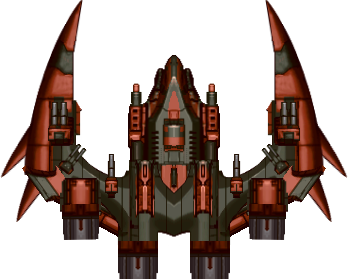
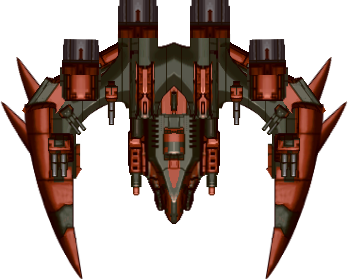
Changed some stuff, added enemy and raindrop effects

diff --git a/script/main.js b/script/main.js
@@ -3,11 +3,11 @@ const canvas = /** @type {HTMLCanvasElement} */ (
 );
 const c = canvas.getContext("2d");
 
-canvas.width = innerWidth;
-canvas.height = innerHeight;
-
 const bg_image = new Image();
 bg_image.src = "./img/background.jpg";
+
+canvas.width = bg_image.width;
+canvas.height = innerHeight;
 
 class Player {
   constructor() {
@@ -33,9 +33,6 @@ class Player {
   }
 
   draw() {
-    //Background
-    c.drawImage(bg_image, 0, 0, canvas.width, canvas.height);
-
     //Save canvas for rotation
     c.save();
     c.translate(
@@ -49,7 +46,6 @@ class Player {
       -player.position.y - player.height / 2
     );
 
-    //Player
     c.drawImage(
       this.image,
       this.position.x,
@@ -103,10 +99,56 @@ class Projectile {
   }
 }
 
+class Enemy {
+  constructor() {
+    this.velocity = {
+      x: 0,
+      y: 0,
+    };
+
+    const image = new Image();
+    image.src = "./img/enemy.png";
+    image.onload = () => {
+      const scale = 0.5;
+      this.image = image;
+      this.height = image.height * scale;
+      this.width = image.width * scale;
+      this.position = {
+        x: canvas.width / 2 - this.width / 2,
+        y: this.width,
+      };
+    };
+  }
+
+  draw() {
+    c.drawImage(
+      this.image,
+      this.position.x,
+      this.position.y,
+      this.width,
+      this.height
+    );
+  }
+
+  update() {
+    if (this.image) {
+      this.draw();
+      this.position.x += this.velocity.x
+      this.position.y += this.velocity.y
+
+
+    }
+  }
+}
+
 const player = new Player();
-var player_shoot_interval = 100
+const enemies = [new Enemy()];
+const enemy = new Enemy()
+var player_shoot_interval = 500
+var enemy_shoot_interval = 500
 
 const projectiles = [];
+const enemy_projectiles = [];
 
 const keys = {
   a: {
@@ -123,7 +165,19 @@ const keys = {
 
 function animate() {
   requestAnimationFrame(animate);
+  
+  //Background
+  c.drawImage(bg_image, 0, 0, canvas.width, canvas.height);
+  //black bg to fade
+  c.fillStyle = 'rgba(0, 0, 0, 0.6)';
+  c.fillRect(0, 0, canvas.width, canvas.height);
+  
+  //draw the "rain" for stars effect
+  rain_draw()
+
   player.update();
+  enemy.update();
+
   projectiles.forEach((projectile, index) => {
     if(projectile.position.y + projectile.height <= 0){
         setTimeout(() =>{
@@ -133,6 +187,17 @@ function animate() {
         projectile.update();
     }
   });
+
+  enemy_projectiles.forEach((projectile, index) => {
+    if(projectile.position.y + projectile.height >= canvas.height){
+        setTimeout(() =>{
+          enemy_projectiles.splice(index, 1)
+        }, 0)
+    }else{
+        projectile.update();
+    }
+  });
+
 
   if (keys.a.pressed && player.position.x >= 10) {
     player.velocity.x = -7;
@@ -154,7 +219,7 @@ function animate() {
         projectiles.push(new Projectile({
             position: {
                 x: player.position.x + player.width / 7,
-                y: player.position.y - 10
+                y: player.position.y + player.height
             },
             velocity: -10
         }))
@@ -163,13 +228,27 @@ function animate() {
 }
 
 function shotCooldown(){
-    setInterval(() => {
-        if(!keys.space.can_shoot){
-            keys.space.can_shoot = true
-        }
-      }, player_shoot_interval)
+  setInterval(() => {
+      if(!keys.space.can_shoot){
+          keys.space.can_shoot = true
+      }
+    }, player_shoot_interval)
 }
 
+function enemyShotCooldown(){
+  setInterval(() => {
+    enemies.forEach((enemy) =>{
+      enemy_projectiles.push(new Projectile({
+        position: {
+            x: enemy.position.x + enemy.width / 7,
+            y: enemy.position.y - 10
+        },
+        velocity: 10
+      }))
+    })
+    }, enemy_shoot_interval)
+}
+enemyShotCooldown()
 shotCooldown()
 
 addEventListener("keydown", ({ key }) => {
@@ -201,3 +280,6 @@ addEventListener("keyup", ({ key }) => {
 });
 
 animate();
+
+//Raindrop
+rain_setup();

diff --git a/script/raindrop.js b/script/raindrop.js
@@ -1,0 +1,48 @@
+let drops = [];
+
+function rain_setup() {
+  for (let i = 0; i < 25; i++) {
+    drops[i] = new Drop();
+  }
+}
+
+function rain_draw() {
+    for (let i = 0; i < drops.length; i++) {
+      drops[i].fall();
+      drops[i].show();
+    }
+  }
+  
+  function Drop() {
+    this.x = Math.random() * canvas.width;
+    this.y = Math.random() * -500;
+    this.z = Math.random() * 20;
+    this.len = map(this.z, 0, 20, 10, 20);
+    this.yspeed = map(this.z, 0, 20, 1, 100);
+  
+    this.fall = function() {
+      this.y = this.y + this.yspeed;
+      var grav = map(this.z, 0, 20, 0, 0.2);
+      this.yspeed = this.yspeed + grav;
+  
+      if (this.y > canvas.height) {
+        this.y = Math.random() * -500;
+        this.yspeed = map(this.z, 0, 20, 4, 10);
+      }
+    }
+  
+    this.show = function() {
+      var thick = map(this.z, 0, 20, 1, 3);
+      c.lineWidth = thick;
+      c.strokeStyle = 'rgba(255, 255, 255, 0.8)';
+      c.beginPath();
+      c.moveTo(this.x, this.y);
+      c.lineTo(this.x, this.y + this.len);
+      c.stroke();
+    }
+  }
+  
+  // This function maps a value from one range to another
+  function map(value, start1, stop1, start2, stop2) {
+    return start2 + (stop2 - start2) * ((value - start1) / (stop1 - start1));
+  }

diff --git a/index.html b/index.html
@@ -9,6 +9,7 @@
   </head>
   <body>
     <canvas></canvas>
+    <script type="text/javascript" src="script/raindrop.js"></script>
     <script type="text/javascript" src="script/main.js"></script>
   </body>
 </html>

diff --git a/style.css b/style.css
@@ -1,6 +1,8 @@
 html,
 body{
   display:flex;
-  margin:0;
+  margin:0 auto;
   padding:0;
+  align-content: center;
+  background-color: black;
 }
